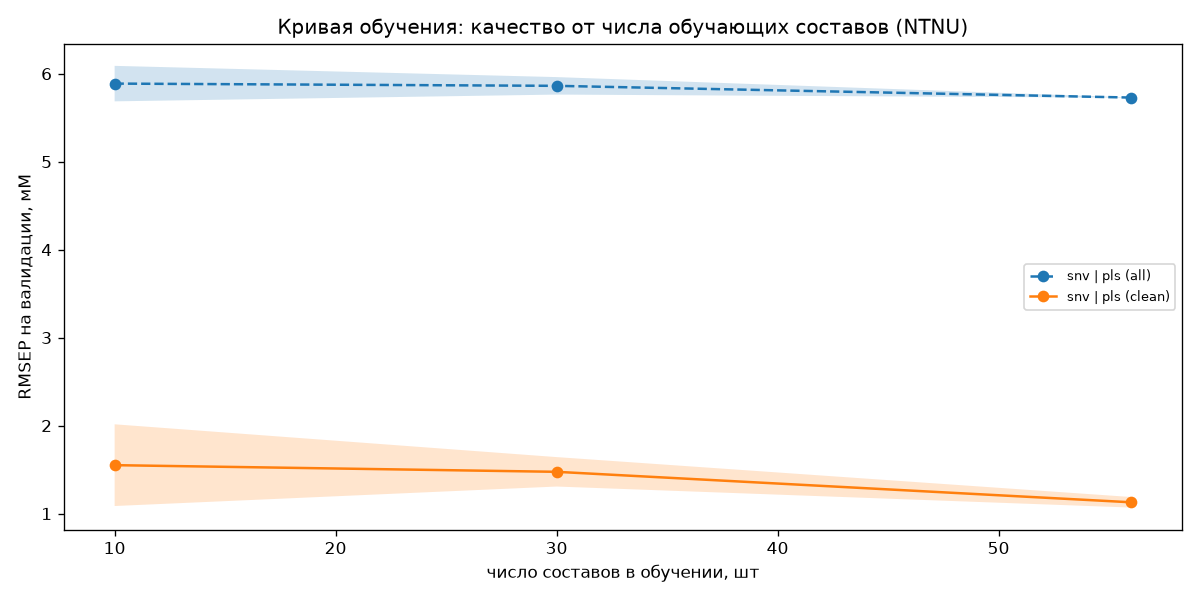
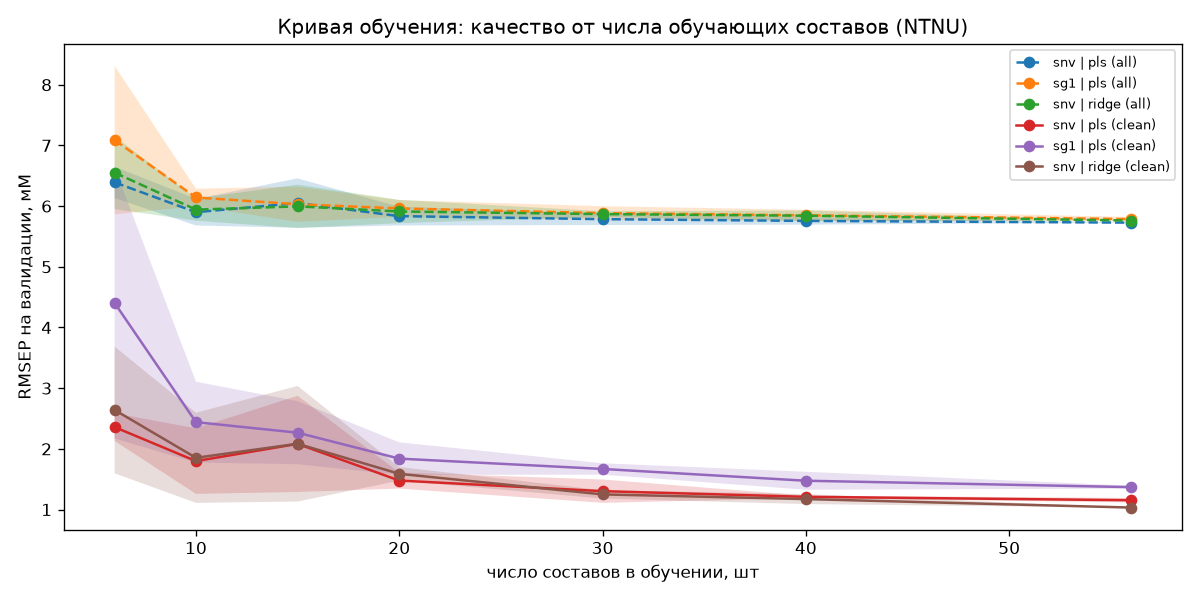
fix: пустой тест экстраполяции при повторяющихся максимальных концентрациях
Порог по квантилю совпадал с максимумом (12 из 56 групп NTNU на 50 мМ), а отбор шёл по строгому «>».
Отсюда же ошибки LAPACK DLALSD: фильтр Савицкого–Голея на пустом массиве.

diff --git a/src/spectra/evaluate.py b/src/spectra/evaluate.py
@@ -46,8 +46,10 @@ def extrapolation_split(ds: SpectraDataset, model: str, prep: str, top_frac=0.2,
     Показывает, умеет ли модель выходить за диапазон калибровки (деревья - нет)."""
     g = pd.DataFrame({"g": ds.groups, "y": ds.y}).groupby("g")["y"].mean()
     thr = g.quantile(1 - top_frac)
-    test_groups = g.index[g > thr]
+    test_groups = g.index[g >= thr]  # >=: при повторяющихся максимальных концентрациях «>» даёт пустой тест
     te = np.isin(ds.groups, test_groups); tr = ~te
+    if not te.any() or not tr.any():
+        raise ValueError(f"Пустой train или test в тесте экстраполяции (порог {thr:.3g})")
     pipe, grid = build(model, prep, ds.X.shape[1], n_train=int(tr.sum()))
     est = _fit_with_inner_cv(pipe, grid, ds.X[tr], ds.y[tr], ds.groups[tr], seed=seed)
     pred = est.predict(ds.X[te])

diff --git a/tests/test_evaluate.py b/tests/test_evaluate.py
@@ -41,3 +41,14 @@ def test_run_grid_fold_stats():
     assert np.isfinite(std) and std >= 0
     assert row["seed"] == 7
     assert set(oof["fold"].unique()) <= {0, 1, 2}
+
+
+def test_extrapolation_split_with_ties():
+    """Много групп на максимальной концентрации: тест экстраполяции не должен быть пустым."""
+    from spectra.evaluate import extrapolation_split
+    ds = make_synthetic(n_solutions=15, seed=5)
+    top = np.isin(ds.groups, np.arange(5))
+    ds.y[top] = ds.y.max()  # 5 из 15 групп на одном максимальном уровне -> квантиль 0.8 равен максимуму
+    te, pred = extrapolation_split(ds, "pls", "raw")
+    assert te.sum() > 0 and len(pred) == te.sum()
+    assert set(ds.groups[te]) & set(ds.groups[~te]) == set()
